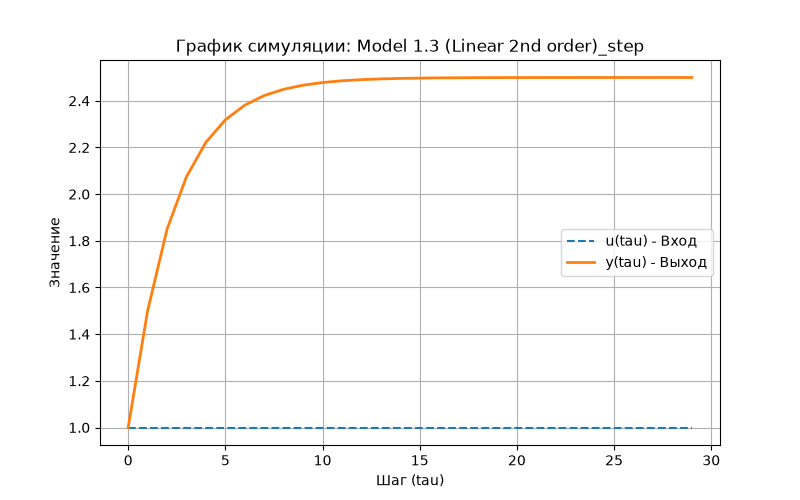
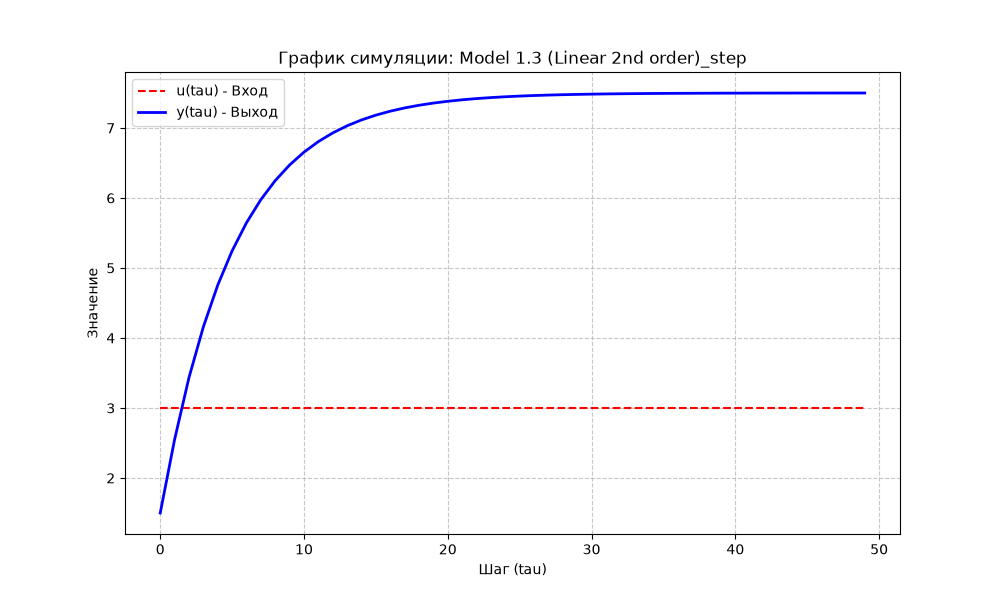
Обновленный отчет

diff --git a/trunk/as06805/task_01/doc/readme.md b/trunk/as06805/task_01/doc/readme.md
@@ -10,7 +10,7 @@
 <p align="right">Выполнил:</p>
 <p align="right">Студент 3 курса</p>
 <p align="right">Группы АС-68</p>
-<p align="right">Дворак В. А. …</p>
+<p align="right">Дворак В. А.</p>
 <p align="right">Проверил:</p>
 <p align="right">Дворанинович Д. А.</p>
 <br><br><br><br><br>
@@ -52,41 +52,14 @@ $$\frac{dy}{dt} = -e^a \cdot y + b \cdot u \quad\Rightarrow\quad y_{\tau+1} = y_
 
 ## ООП Архитектура
 
-Создан абстрактный базовый класс `Model` с чистыми виртуальными методами
-`step()` и `reset()`, а также методом `name()` для идентификации модели.
+Создан абстрактный базовый класс `Model` с чистыми виртуальными методами `step()` и `reset()`, а также методом `name()` для идентификации модели.
 
 От базового класса наследуются:
 - `LinearModel13` — линейная модель 2-го порядка
 - `NonlinearModel25` — нелинейная модель с насыщением
 - `ODEModel37` — дифференциальное уравнение (метод Эйлера)
 
-## Результаты моделирования
-
-### 1. Переходные процессы линейной модели (Model 1.3)
-
-![Model 1.3 — ступенчатое воздействие](Model%201.3%20%28Linear%202nd%20order%29_step.png)
-
-![Model 1.3 — импульсное воздействие](Model%201.3%20%28Linear%202nd%20order%29_impulse.png)
-
-![Model 1.3 — гармоническое воздействие](Model%201.3%20%28Linear%202nd%20order%29_harmonic.png)
-
-### 2. Переходные процессы нелинейной модели (Model 2.5)
-
-![Model 2.5 — ступенчатое воздействие](Model%202.5%20%28Nonlinear%20friction%29_step.png)
-
-![Model 2.5 — импульсное воздействие](Model%202.5%20%28Nonlinear%20friction%29_impulse.png)
-
-![Model 2.5 — гармоническое воздействие](Model%202.5%20%28Nonlinear%20friction%29_harmonic.png)
-
-### 3. Переходные процессы дифференциальной модели (Model 3.7)
-
-![Model 3.7 — ступенчатое воздействие](Model%203.7%20%28ODE%2C%20Euler%29_step.png)
-
-![Model 3.7 — импульсное воздействие](Model%203.7%20%28ODE%2C%20Euler%29_impulse.png)
-
-![Model 3.7 — гармоническое воздействие](Model%203.7%20%28ODE%2C%20Euler%29_harmonic.png)
-
-## UML Диаграмма классов
+### UML Диаграмма классов
 
 ```mermaid
 classDiagram
